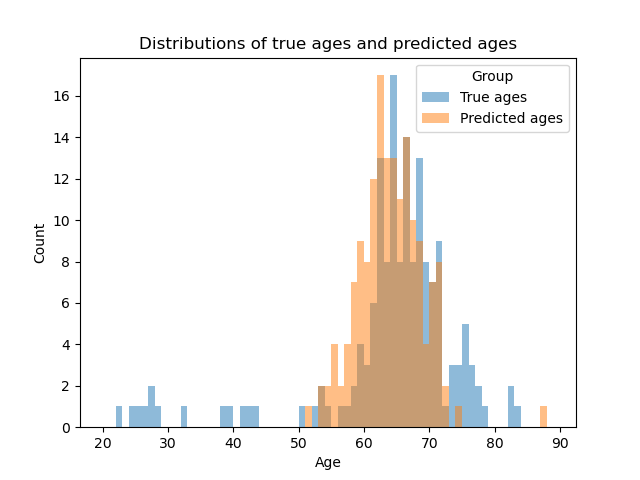
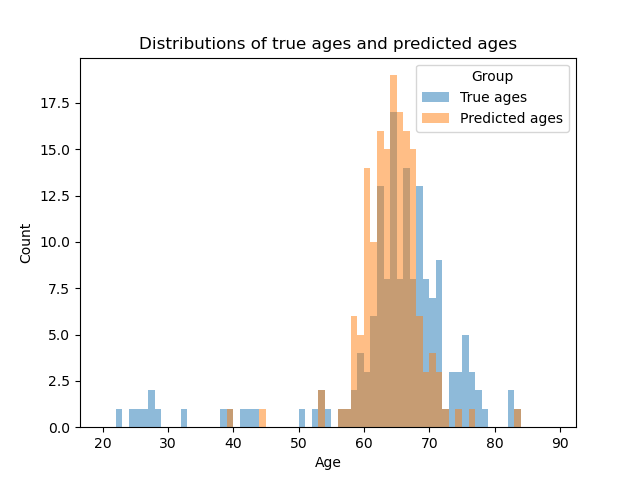
test with rank = 262

diff --git a/compute_benchmark_age_prediction.py b/compute_benchmark_age_prediction.py
@@ -177,7 +177,7 @@ def load_benchmark_data(dataset, benchmark, condition=None):
         if dataset == 'camcan':
             rank = 65
         elif dataset =='omega':
-            rank = 50
+            rank = 262
         else:
             rank = len(analyze_channels) - 1
 
